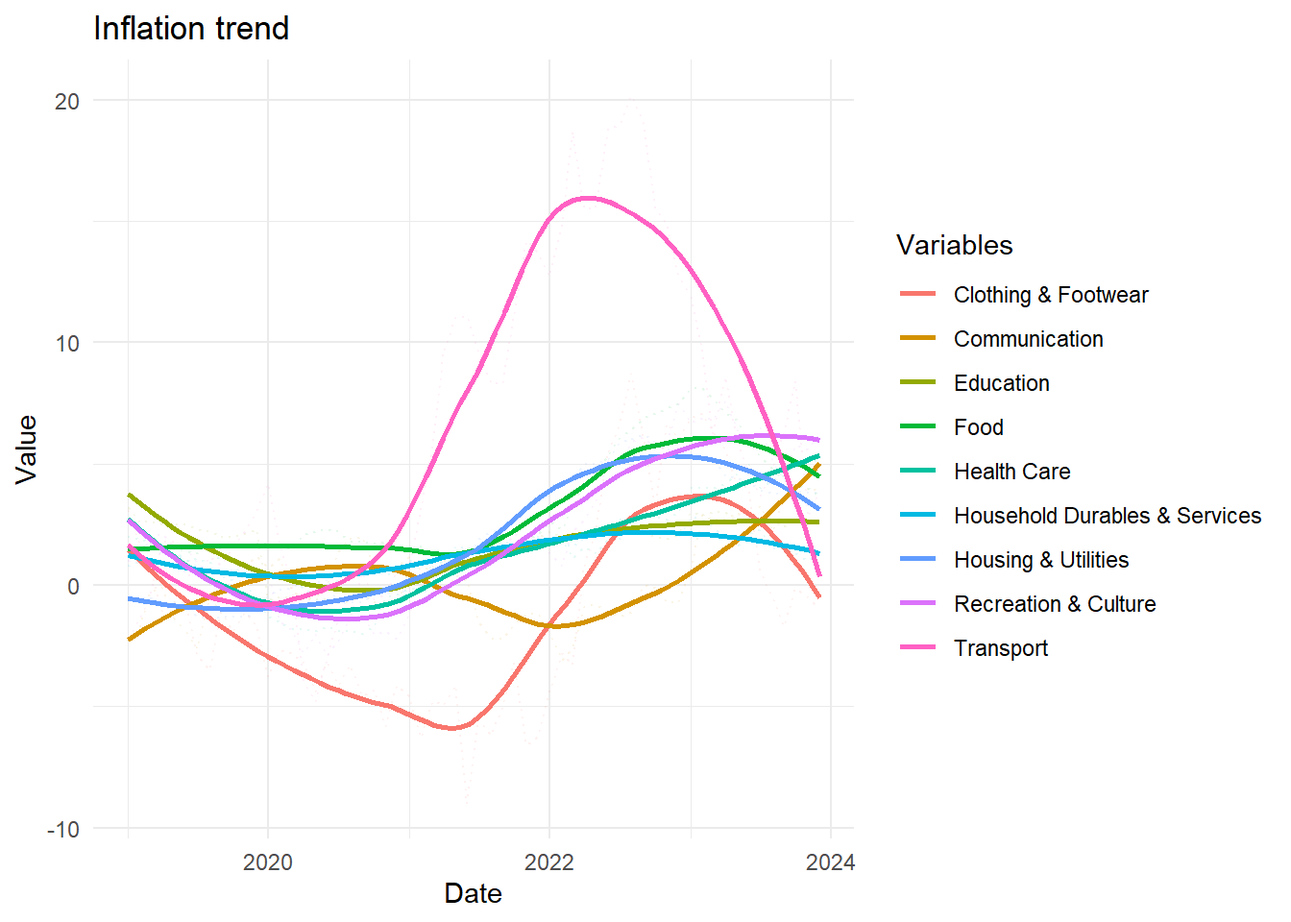
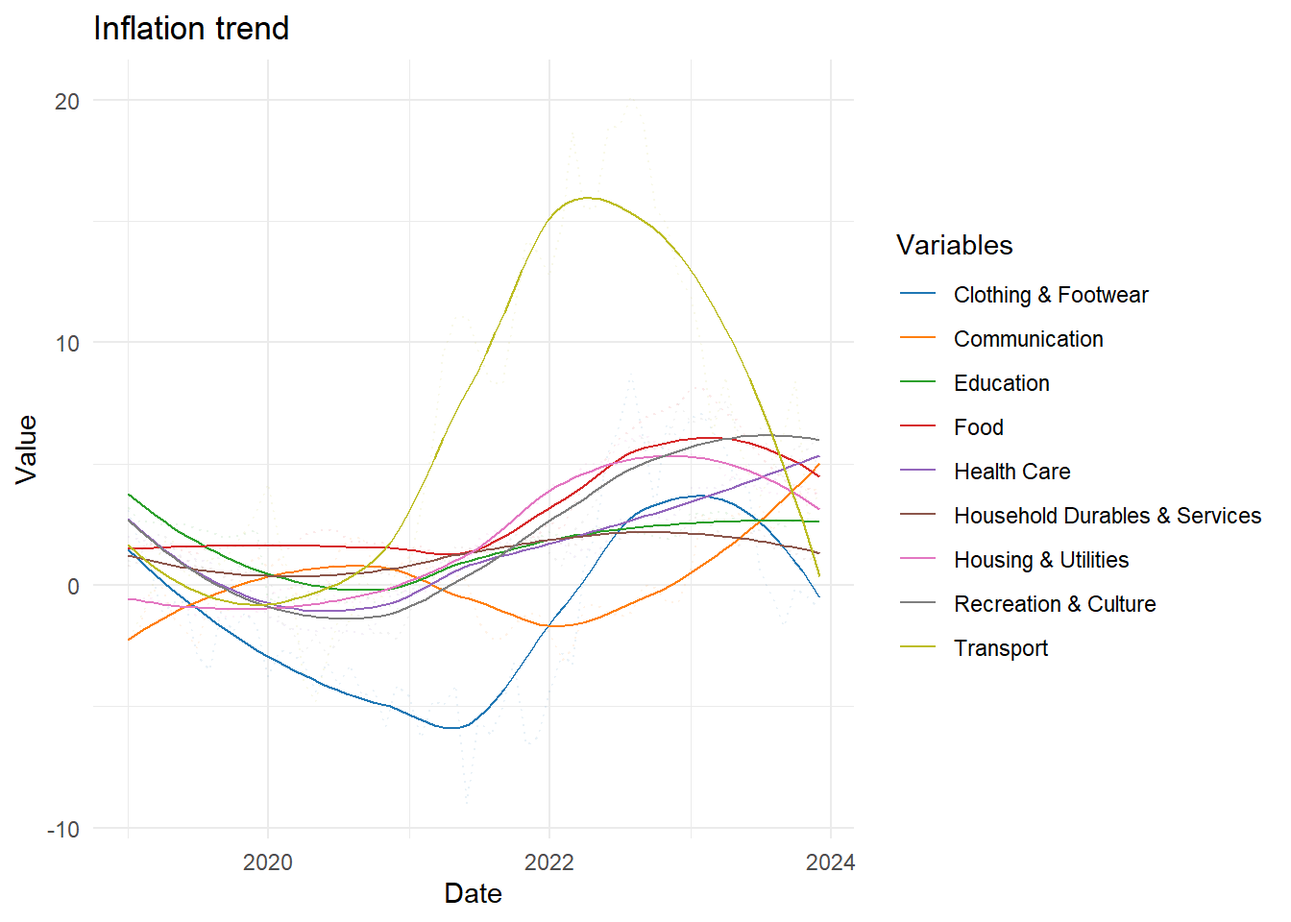
Test another graph

diff --git a/project_prep.html b/project_prep.html
@@ -113,7 +113,7 @@ pre > code.sourceCode > span > a:first-child::before { text-decoration: underlin
 <div id="fig-old-vis-on-poster" class="quarto-figure quarto-figure-center quarto-float anchored">
 <figure class="quarto-float quarto-float-fig figure">
 <div aria-describedby="fig-old-vis-on-poster-caption-0ceaefa1-69ba-4598-a22c-09a6ac19f8ca">
-<img src="images/old_poster.png" class="img-fluid figure-img">
+<img src="images/old_poster.png" class="img-fluid figure-img" width="254">
 </div>
 <figcaption class="quarto-float-caption-bottom quarto-float-caption quarto-float-fig" id="fig-old-vis-on-poster-caption-0ceaefa1-69ba-4598-a22c-09a6ac19f8ca">
 Figure&nbsp;1: Heat map of inflationary impact on key items over 2023.
@@ -181,16 +181,23 @@ Figure&nbsp;1: Heat map of inflationary impact on key items over 2023.
 </div>
 <p>The data is then filtered to include only data from the base year onwards (2019). This is done to narrow down the size of the dataset for easier management and faster performance, as well as to ensure the dataset’s consistency with the base year:</p>
 <div class="cell">
-<div class="sourceCode cell-code" id="cb5"><pre class="sourceCode r code-with-copy"><code class="sourceCode r"><span id="cb5-1"><a href="#cb5-1" aria-hidden="true" tabindex="-1"></a><span class="co"># Filter the data to include only these categories and the months from 2019 onwards</span></span>
-<span id="cb5-2"><a href="#cb5-2" aria-hidden="true" tabindex="-1"></a>data <span class="ot">&lt;-</span> data <span class="sc">|&gt;</span></span>
-<span id="cb5-3"><a href="#cb5-3" aria-hidden="true" tabindex="-1"></a>  <span class="fu">filter</span>(Variables <span class="sc">%in%</span> categories) <span class="sc">|&gt;</span></span>
+<div class="sourceCode cell-code" id="cb5"><pre class="sourceCode r code-with-copy"><code class="sourceCode r"><span id="cb5-1"><a href="#cb5-1" aria-hidden="true" tabindex="-1"></a><span class="co"># Filter the total inflation every year</span></span>
+<span id="cb5-2"><a href="#cb5-2" aria-hidden="true" tabindex="-1"></a>total_inf_data <span class="ot">&lt;-</span> data <span class="sc">|&gt;</span> </span>
+<span id="cb5-3"><a href="#cb5-3" aria-hidden="true" tabindex="-1"></a>  <span class="fu">filter</span>(Variables <span class="sc">%in%</span> <span class="st">"All Items"</span>) <span class="sc">|&gt;</span></span>
 <span id="cb5-4"><a href="#cb5-4" aria-hidden="true" tabindex="-1"></a>  <span class="fu">select</span>(Variables, <span class="fu">starts_with</span>(<span class="fu">c</span>(<span class="st">"2019"</span>, <span class="st">"2020"</span>, <span class="st">"2021"</span>, <span class="st">"2022"</span>, <span class="st">"2023"</span>))) <span class="sc">|&gt;</span></span>
 <span id="cb5-5"><a href="#cb5-5" aria-hidden="true" tabindex="-1"></a>  <span class="co"># Convert selected columns to numeric</span></span>
 <span id="cb5-6"><a href="#cb5-6" aria-hidden="true" tabindex="-1"></a>  <span class="fu">mutate_at</span>(<span class="fu">vars</span>(<span class="fu">starts_with</span>(<span class="fu">c</span>(<span class="st">"2019"</span>, <span class="st">"2020"</span>, <span class="st">"2021"</span>, <span class="st">"2022"</span>, <span class="st">"2023"</span>))), as.numeric)</span>
 <span id="cb5-7"><a href="#cb5-7" aria-hidden="true" tabindex="-1"></a></span>
-<span id="cb5-8"><a href="#cb5-8" aria-hidden="true" tabindex="-1"></a><span class="co"># Print the filtered data</span></span>
-<span id="cb5-9"><a href="#cb5-9" aria-hidden="true" tabindex="-1"></a><span class="fu">options</span>(<span class="at">max.print =</span> <span class="fl">1e6</span>)</span>
-<span id="cb5-10"><a href="#cb5-10" aria-hidden="true" tabindex="-1"></a><span class="fu">print</span>(data, <span class="at">n =</span> <span class="fu">nrow</span>(data), <span class="at">width =</span> <span class="cn">Inf</span>)</span></code><button title="Copy to Clipboard" class="code-copy-button"><i class="bi"></i></button></pre></div>
+<span id="cb5-8"><a href="#cb5-8" aria-hidden="true" tabindex="-1"></a><span class="co"># Filter the data to include only these categories and the months from 2019 onwards</span></span>
+<span id="cb5-9"><a href="#cb5-9" aria-hidden="true" tabindex="-1"></a>data <span class="ot">&lt;-</span> data <span class="sc">|&gt;</span></span>
+<span id="cb5-10"><a href="#cb5-10" aria-hidden="true" tabindex="-1"></a>  <span class="fu">filter</span>(Variables <span class="sc">%in%</span> categories) <span class="sc">|&gt;</span></span>
+<span id="cb5-11"><a href="#cb5-11" aria-hidden="true" tabindex="-1"></a>  <span class="fu">select</span>(Variables, <span class="fu">starts_with</span>(<span class="fu">c</span>(<span class="st">"2019"</span>, <span class="st">"2020"</span>, <span class="st">"2021"</span>, <span class="st">"2022"</span>, <span class="st">"2023"</span>))) <span class="sc">|&gt;</span></span>
+<span id="cb5-12"><a href="#cb5-12" aria-hidden="true" tabindex="-1"></a>  <span class="co"># Convert selected columns to numeric</span></span>
+<span id="cb5-13"><a href="#cb5-13" aria-hidden="true" tabindex="-1"></a>  <span class="fu">mutate_at</span>(<span class="fu">vars</span>(<span class="fu">starts_with</span>(<span class="fu">c</span>(<span class="st">"2019"</span>, <span class="st">"2020"</span>, <span class="st">"2021"</span>, <span class="st">"2022"</span>, <span class="st">"2023"</span>))), as.numeric)</span>
+<span id="cb5-14"><a href="#cb5-14" aria-hidden="true" tabindex="-1"></a></span>
+<span id="cb5-15"><a href="#cb5-15" aria-hidden="true" tabindex="-1"></a><span class="co"># Print the filtered data</span></span>
+<span id="cb5-16"><a href="#cb5-16" aria-hidden="true" tabindex="-1"></a><span class="fu">options</span>(<span class="at">max.print =</span> <span class="fl">1e6</span>)</span>
+<span id="cb5-17"><a href="#cb5-17" aria-hidden="true" tabindex="-1"></a><span class="fu">print</span>(data, <span class="at">n =</span> <span class="fu">nrow</span>(data), <span class="at">width =</span> <span class="cn">Inf</span>)</span></code><button title="Copy to Clipboard" class="code-copy-button"><i class="bi"></i></button></pre></div>
 <div class="cell-output cell-output-stdout">
 <pre><code># A tibble: 9 × 61
   Variables                     `2019 Jan` `2019 Feb` `2019 Mar` `2019 Apr`
@@ -313,7 +320,21 @@ Figure&nbsp;1: Heat map of inflationary impact on key items over 2023.
 <span id="cb7-16"><a href="#cb7-16" aria-hidden="true" tabindex="-1"></a>  <span class="co"># To sort the data by Year, then by Month</span></span>
 <span id="cb7-17"><a href="#cb7-17" aria-hidden="true" tabindex="-1"></a>  <span class="fu">arrange</span>(Year, Month)</span>
 <span id="cb7-18"><a href="#cb7-18" aria-hidden="true" tabindex="-1"></a></span>
-<span id="cb7-19"><a href="#cb7-19" aria-hidden="true" tabindex="-1"></a>pivoted_data</span></code><button title="Copy to Clipboard" class="code-copy-button"><i class="bi"></i></button></pre></div>
+<span id="cb7-19"><a href="#cb7-19" aria-hidden="true" tabindex="-1"></a><span class="co"># Pivot the data for the total inflation</span></span>
+<span id="cb7-20"><a href="#cb7-20" aria-hidden="true" tabindex="-1"></a>pivoted_total_data <span class="ot">&lt;-</span> <span class="fu">pivot_longer</span>(</span>
+<span id="cb7-21"><a href="#cb7-21" aria-hidden="true" tabindex="-1"></a>  total_inf_data, </span>
+<span id="cb7-22"><a href="#cb7-22" aria-hidden="true" tabindex="-1"></a>  <span class="at">cols =</span> <span class="fu">starts_with</span>(<span class="fu">c</span>(<span class="st">"2019"</span>, <span class="st">"2020"</span>, <span class="st">"2021"</span>,<span class="st">"2022"</span>, <span class="st">"2023"</span>)),</span>
+<span id="cb7-23"><a href="#cb7-23" aria-hidden="true" tabindex="-1"></a>  <span class="at">names_to =</span> <span class="st">"Month_Year"</span>,</span>
+<span id="cb7-24"><a href="#cb7-24" aria-hidden="true" tabindex="-1"></a>  <span class="at">values_to =</span> <span class="st">"Value"</span></span>
+<span id="cb7-25"><a href="#cb7-25" aria-hidden="true" tabindex="-1"></a>) <span class="sc">|&gt;</span></span>
+<span id="cb7-26"><a href="#cb7-26" aria-hidden="true" tabindex="-1"></a>  <span class="co"># Separate the Month column into Year and Month</span></span>
+<span id="cb7-27"><a href="#cb7-27" aria-hidden="true" tabindex="-1"></a>  <span class="fu">separate</span>(Month_Year, <span class="at">into =</span> <span class="fu">c</span>(<span class="st">"Year"</span>, <span class="st">"Month"</span>), <span class="at">sep =</span> <span class="st">" "</span>) <span class="sc">|&gt;</span></span>
+<span id="cb7-28"><a href="#cb7-28" aria-hidden="true" tabindex="-1"></a>  <span class="co"># Convert Month column into numeric using mapping</span></span>
+<span id="cb7-29"><a href="#cb7-29" aria-hidden="true" tabindex="-1"></a>  <span class="fu">mutate</span>(<span class="at">Year =</span> <span class="fu">as.numeric</span>(Year), <span class="at">Month =</span> month_mapping[Month]) <span class="sc">|&gt;</span></span>
+<span id="cb7-30"><a href="#cb7-30" aria-hidden="true" tabindex="-1"></a>  <span class="co"># To sort the data by Year, then by Month</span></span>
+<span id="cb7-31"><a href="#cb7-31" aria-hidden="true" tabindex="-1"></a>  <span class="fu">arrange</span>(Year, Month)</span>
+<span id="cb7-32"><a href="#cb7-32" aria-hidden="true" tabindex="-1"></a></span>
+<span id="cb7-33"><a href="#cb7-33" aria-hidden="true" tabindex="-1"></a>pivoted_data</span></code><button title="Copy to Clipboard" class="code-copy-button"><i class="bi"></i></button></pre></div>
 <div class="cell-output cell-output-stdout">
 <pre><code># A tibble: 540 × 4
    Variables                      Year Month Value
@@ -330,19 +351,36 @@ Figure&nbsp;1: Heat map of inflationary impact on key items over 2023.
 10 Food                           2019     2   1.5
 # ℹ 530 more rows</code></pre>
 </div>
+<div class="sourceCode cell-code" id="cb9"><pre class="sourceCode r code-with-copy"><code class="sourceCode r"><span id="cb9-1"><a href="#cb9-1" aria-hidden="true" tabindex="-1"></a>pivoted_total_data</span></code><button title="Copy to Clipboard" class="code-copy-button"><i class="bi"></i></button></pre></div>
+<div class="cell-output cell-output-stdout">
+<pre><code># A tibble: 60 × 4
+   Variables  Year Month Value
+   &lt;chr&gt;     &lt;dbl&gt; &lt;dbl&gt; &lt;dbl&gt;
+ 1 All Items  2019     1   0.4
+ 2 All Items  2019     2   0.5
+ 3 All Items  2019     3   0.7
+ 4 All Items  2019     4   0.9
+ 5 All Items  2019     5   0.9
+ 6 All Items  2019     6   0.5
+ 7 All Items  2019     7   0.2
+ 8 All Items  2019     8   0.4
+ 9 All Items  2019     9   0.4
+10 All Items  2019    10   0.5
+# ℹ 50 more rows</code></pre>
+</div>
 </div>
 </section>
 <section id="attempting-to-plot-the-above-data-using-a-line-graph" class="level1">
 <h1>Attempting to plot the above data using a line graph</h1>
 <div class="cell">
-<div class="sourceCode cell-code" id="cb9"><pre class="sourceCode r code-with-copy"><code class="sourceCode r"><span id="cb9-1"><a href="#cb9-1" aria-hidden="true" tabindex="-1"></a><span class="co">#| line-graph-plot</span></span>
-<span id="cb9-2"><a href="#cb9-2" aria-hidden="true" tabindex="-1"></a></span>
-<span id="cb9-3"><a href="#cb9-3" aria-hidden="true" tabindex="-1"></a><span class="co">#  Maybe it's something to build upon?</span></span>
-<span id="cb9-4"><a href="#cb9-4" aria-hidden="true" tabindex="-1"></a></span>
-<span id="cb9-5"><a href="#cb9-5" aria-hidden="true" tabindex="-1"></a><span class="co"># Convert Month and Year to a combined date variable for X-axis</span></span>
-<span id="cb9-6"><a href="#cb9-6" aria-hidden="true" tabindex="-1"></a>pivoted_data<span class="sc">$</span>Date <span class="ot">&lt;-</span> <span class="fu">as.Date</span>(<span class="fu">paste</span>(pivoted_data<span class="sc">$</span>Year, pivoted_data<span class="sc">$</span>Month, <span class="st">"01"</span>, <span class="at">sep =</span> <span class="st">"-"</span>))</span>
-<span id="cb9-7"><a href="#cb9-7" aria-hidden="true" tabindex="-1"></a></span>
-<span id="cb9-8"><a href="#cb9-8" aria-hidden="true" tabindex="-1"></a>pivoted_data</span></code><button title="Copy to Clipboard" class="code-copy-button"><i class="bi"></i></button></pre></div>
+<div class="sourceCode cell-code" id="cb11"><pre class="sourceCode r code-with-copy"><code class="sourceCode r"><span id="cb11-1"><a href="#cb11-1" aria-hidden="true" tabindex="-1"></a><span class="co">#| line-graph-plot</span></span>
+<span id="cb11-2"><a href="#cb11-2" aria-hidden="true" tabindex="-1"></a></span>
+<span id="cb11-3"><a href="#cb11-3" aria-hidden="true" tabindex="-1"></a><span class="co">#  Maybe it's something to build upon?</span></span>
+<span id="cb11-4"><a href="#cb11-4" aria-hidden="true" tabindex="-1"></a></span>
+<span id="cb11-5"><a href="#cb11-5" aria-hidden="true" tabindex="-1"></a><span class="co"># Convert Month and Year to a combined date variable for X-axis</span></span>
+<span id="cb11-6"><a href="#cb11-6" aria-hidden="true" tabindex="-1"></a>pivoted_data<span class="sc">$</span>Date <span class="ot">&lt;-</span> <span class="fu">as.Date</span>(<span class="fu">paste</span>(pivoted_data<span class="sc">$</span>Year, pivoted_data<span class="sc">$</span>Month, <span class="st">"01"</span>, <span class="at">sep =</span> <span class="st">"-"</span>))</span>
+<span id="cb11-7"><a href="#cb11-7" aria-hidden="true" tabindex="-1"></a></span>
+<span id="cb11-8"><a href="#cb11-8" aria-hidden="true" tabindex="-1"></a>pivoted_data</span></code><button title="Copy to Clipboard" class="code-copy-button"><i class="bi"></i></button></pre></div>
 <div class="cell-output cell-output-stdout">
 <pre><code># A tibble: 540 × 5
    Variables                      Year Month Value Date      
@@ -359,18 +397,22 @@ Figure&nbsp;1: Heat map of inflationary impact on key items over 2023.
 10 Food                           2019     2   1.5 2019-02-01
 # ℹ 530 more rows</code></pre>
 </div>
-<div class="sourceCode cell-code" id="cb11"><pre class="sourceCode r code-with-copy"><code class="sourceCode r"><span id="cb11-1"><a href="#cb11-1" aria-hidden="true" tabindex="-1"></a>plt <span class="ot">&lt;-</span> <span class="fu">ggplot</span>(pivoted_data, <span class="fu">aes</span>(<span class="at">x =</span> Date, <span class="at">y =</span> Value, <span class="at">color =</span> Variables)) <span class="sc">+</span></span>
-<span id="cb11-2"><a href="#cb11-2" aria-hidden="true" tabindex="-1"></a>  <span class="fu">geom_line</span>(<span class="fu">aes</span>(<span class="at">color =</span> Variables), <span class="at">alpha =</span> <span class="fl">0.1</span>, <span class="at">linetype=</span><span class="st">"dotted"</span>) <span class="sc">+</span> <span class="co">#  add the exact line graph (harsh)</span></span>
-<span id="cb11-3"><a href="#cb11-3" aria-hidden="true" tabindex="-1"></a>  <span class="fu">geom_smooth</span>(<span class="at">method =</span> <span class="st">"auto"</span>, <span class="at">se =</span> <span class="cn">FALSE</span>, <span class="fu">aes</span>(<span class="at">group =</span> Variables)) <span class="sc">+</span>  <span class="co"># Add a smooth curve</span></span>
-<span id="cb11-4"><a href="#cb11-4" aria-hidden="true" tabindex="-1"></a>  <span class="co"># geom_point(aes(color=Variables), alpha=0.2) + #  add the exact data point</span></span>
-<span id="cb11-5"><a href="#cb11-5" aria-hidden="true" tabindex="-1"></a>  <span class="fu">labs</span>(</span>
-<span id="cb11-6"><a href="#cb11-6" aria-hidden="true" tabindex="-1"></a>    <span class="at">title =</span> <span class="st">"Inflation trend"</span>,</span>
-<span id="cb11-7"><a href="#cb11-7" aria-hidden="true" tabindex="-1"></a>    <span class="at">x =</span> <span class="st">"Date"</span>,</span>
-<span id="cb11-8"><a href="#cb11-8" aria-hidden="true" tabindex="-1"></a>    <span class="at">y =</span> <span class="st">"Value"</span></span>
-<span id="cb11-9"><a href="#cb11-9" aria-hidden="true" tabindex="-1"></a>  ) <span class="sc">+</span></span>
-<span id="cb11-10"><a href="#cb11-10" aria-hidden="true" tabindex="-1"></a>  <span class="fu">theme_minimal</span>()</span>
-<span id="cb11-11"><a href="#cb11-11" aria-hidden="true" tabindex="-1"></a></span>
-<span id="cb11-12"><a href="#cb11-12" aria-hidden="true" tabindex="-1"></a>plt</span></code><button title="Copy to Clipboard" class="code-copy-button"><i class="bi"></i></button></pre></div>
+<div class="sourceCode cell-code" id="cb13"><pre class="sourceCode r code-with-copy"><code class="sourceCode r"><span id="cb13-1"><a href="#cb13-1" aria-hidden="true" tabindex="-1"></a><span class="co"># Use Qualitative Color Palette for different categories. Use colors that are easily distinguishable with the white bg</span></span>
+<span id="cb13-2"><a href="#cb13-2" aria-hidden="true" tabindex="-1"></a>custom_colors <span class="ot">&lt;-</span> <span class="fu">c</span>(<span class="st">"#1f77b4"</span>, <span class="st">"#ff7f0e"</span>, <span class="st">"#2ca02c"</span>, <span class="st">"#d62728"</span>, <span class="st">"#9467bd"</span>, <span class="st">"#8c564b"</span>, <span class="st">"#e377c2"</span>, <span class="st">"#7f7f7f"</span>, <span class="st">"#bcbd22"</span>)</span>
+<span id="cb13-3"><a href="#cb13-3" aria-hidden="true" tabindex="-1"></a></span>
+<span id="cb13-4"><a href="#cb13-4" aria-hidden="true" tabindex="-1"></a>plt <span class="ot">&lt;-</span> <span class="fu">ggplot</span>(pivoted_data, <span class="fu">aes</span>(<span class="at">x =</span> Date, <span class="at">y =</span> Value, <span class="at">color =</span> Variables)) <span class="sc">+</span></span>
+<span id="cb13-5"><a href="#cb13-5" aria-hidden="true" tabindex="-1"></a>  <span class="fu">geom_line</span>(<span class="fu">aes</span>(<span class="at">color =</span> Variables), <span class="at">alpha =</span> <span class="fl">0.1</span>, <span class="at">linetype=</span><span class="st">"dotted"</span>) <span class="sc">+</span> <span class="co">#  add the exact line graph (harsh)</span></span>
+<span id="cb13-6"><a href="#cb13-6" aria-hidden="true" tabindex="-1"></a>  <span class="fu">scale_color_manual</span>(<span class="at">values =</span> custom_colors) <span class="sc">+</span>  </span>
+<span id="cb13-7"><a href="#cb13-7" aria-hidden="true" tabindex="-1"></a>  <span class="fu">geom_smooth</span>(<span class="at">method =</span> <span class="st">"auto"</span>, <span class="at">se =</span> <span class="cn">FALSE</span>, <span class="fu">aes</span>(<span class="at">group =</span> Variables), <span class="at">linewidth =</span> <span class="fl">0.5</span>) <span class="sc">+</span>  <span class="co"># Add a smooth curve</span></span>
+<span id="cb13-8"><a href="#cb13-8" aria-hidden="true" tabindex="-1"></a>  <span class="co"># geom_point(aes(color=Variables), alpha=0.2) + #  add the exact data point</span></span>
+<span id="cb13-9"><a href="#cb13-9" aria-hidden="true" tabindex="-1"></a>  <span class="fu">labs</span>(</span>
+<span id="cb13-10"><a href="#cb13-10" aria-hidden="true" tabindex="-1"></a>    <span class="at">title =</span> <span class="st">"Inflation trend"</span>,</span>
+<span id="cb13-11"><a href="#cb13-11" aria-hidden="true" tabindex="-1"></a>    <span class="at">x =</span> <span class="st">"Date"</span>,</span>
+<span id="cb13-12"><a href="#cb13-12" aria-hidden="true" tabindex="-1"></a>    <span class="at">y =</span> <span class="st">"Value"</span></span>
+<span id="cb13-13"><a href="#cb13-13" aria-hidden="true" tabindex="-1"></a>  ) <span class="sc">+</span> </span>
+<span id="cb13-14"><a href="#cb13-14" aria-hidden="true" tabindex="-1"></a>  <span class="fu">theme_minimal</span>()</span>
+<span id="cb13-15"><a href="#cb13-15" aria-hidden="true" tabindex="-1"></a></span>
+<span id="cb13-16"><a href="#cb13-16" aria-hidden="true" tabindex="-1"></a>plt</span></code><button title="Copy to Clipboard" class="code-copy-button"><i class="bi"></i></button></pre></div>
 <div class="cell-output cell-output-stderr">
 <pre><code>`geom_smooth()` using method = 'loess' and formula = 'y ~ x'</code></pre>
 </div>
@@ -386,9 +428,9 @@ Figure&nbsp;1: Heat map of inflationary impact on key items over 2023.
 <section id="attempting-to-plot-a-heatmap-using-the-preprocessed-above" class="level1">
 <h1>Attempting to plot a heatmap using the preprocessed above</h1>
 <div class="cell">
-<div class="sourceCode cell-code" id="cb13"><pre class="sourceCode r code-with-copy"><code class="sourceCode r"><span id="cb13-1"><a href="#cb13-1" aria-hidden="true" tabindex="-1"></a>df_long <span class="ot">&lt;-</span> </span>
-<span id="cb13-2"><a href="#cb13-2" aria-hidden="true" tabindex="-1"></a>  <span class="fu">pivot_longer</span>(data, <span class="at">cols =</span> <span class="sc">-</span>Variables, <span class="at">names_to =</span> <span class="st">"Month"</span>, <span class="at">values_to =</span> <span class="st">"Value"</span>)</span>
-<span id="cb13-3"><a href="#cb13-3" aria-hidden="true" tabindex="-1"></a>df_long</span></code><button title="Copy to Clipboard" class="code-copy-button"><i class="bi"></i></button></pre></div>
+<div class="sourceCode cell-code" id="cb15"><pre class="sourceCode r code-with-copy"><code class="sourceCode r"><span id="cb15-1"><a href="#cb15-1" aria-hidden="true" tabindex="-1"></a>df_long <span class="ot">&lt;-</span> </span>
+<span id="cb15-2"><a href="#cb15-2" aria-hidden="true" tabindex="-1"></a>  <span class="fu">pivot_longer</span>(data, <span class="at">cols =</span> <span class="sc">-</span>Variables, <span class="at">names_to =</span> <span class="st">"Month"</span>, <span class="at">values_to =</span> <span class="st">"Value"</span>)</span>
+<span id="cb15-3"><a href="#cb15-3" aria-hidden="true" tabindex="-1"></a>df_long</span></code><button title="Copy to Clipboard" class="code-copy-button"><i class="bi"></i></button></pre></div>
 <div class="cell-output cell-output-stdout">
 <pre><code># A tibble: 540 × 3
    Variables Month    Value
@@ -405,40 +447,124 @@ Figure&nbsp;1: Heat map of inflationary impact on key items over 2023.
 10 Food      2019 Oct   1.6
 # ℹ 530 more rows</code></pre>
 </div>
-<div class="sourceCode cell-code" id="cb15"><pre class="sourceCode r code-with-copy"><code class="sourceCode r"><span id="cb15-1"><a href="#cb15-1" aria-hidden="true" tabindex="-1"></a><span class="co"># Create a data frame for the year labels and vertical lines</span></span>
-<span id="cb15-2"><a href="#cb15-2" aria-hidden="true" tabindex="-1"></a>years <span class="ot">&lt;-</span> <span class="fu">unique</span>(df_long<span class="sc">$</span>Year)</span></code><button title="Copy to Clipboard" class="code-copy-button"><i class="bi"></i></button></pre></div>
+<div class="sourceCode cell-code" id="cb17"><pre class="sourceCode r code-with-copy"><code class="sourceCode r"><span id="cb17-1"><a href="#cb17-1" aria-hidden="true" tabindex="-1"></a><span class="co"># Create a data frame for the year labels and vertical lines</span></span>
+<span id="cb17-2"><a href="#cb17-2" aria-hidden="true" tabindex="-1"></a>years <span class="ot">&lt;-</span> <span class="fu">unique</span>(df_long<span class="sc">$</span>Year)</span></code><button title="Copy to Clipboard" class="code-copy-button"><i class="bi"></i></button></pre></div>
 <div class="cell-output cell-output-stderr">
 <pre><code>Warning: Unknown or uninitialised column: `Year`.</code></pre>
 </div>
-<div class="sourceCode cell-code" id="cb17"><pre class="sourceCode r code-with-copy"><code class="sourceCode r"><span id="cb17-1"><a href="#cb17-1" aria-hidden="true" tabindex="-1"></a>year_positions <span class="ot">&lt;-</span> <span class="fu">seq</span>(<span class="fl">12.5</span>, <span class="at">by =</span> <span class="dv">12</span>, <span class="at">length.out =</span> <span class="fu">length</span>(years))</span>
-<span id="cb17-2"><a href="#cb17-2" aria-hidden="true" tabindex="-1"></a></span>
-<span id="cb17-3"><a href="#cb17-3" aria-hidden="true" tabindex="-1"></a>year_labels <span class="ot">&lt;-</span> <span class="fu">data.frame</span>(</span>
-<span id="cb17-4"><a href="#cb17-4" aria-hidden="true" tabindex="-1"></a>  <span class="at">Year =</span> years,</span>
-<span id="cb17-5"><a href="#cb17-5" aria-hidden="true" tabindex="-1"></a>  <span class="at">x_position =</span> <span class="fu">seq</span>(<span class="fl">6.5</span>, <span class="at">by =</span> <span class="dv">12</span>, <span class="at">length.out =</span> <span class="fu">length</span>(years))  <span class="co"># Adjust x_position for year labels</span></span>
-<span id="cb17-6"><a href="#cb17-6" aria-hidden="true" tabindex="-1"></a>)</span>
-<span id="cb17-7"><a href="#cb17-7" aria-hidden="true" tabindex="-1"></a></span>
-<span id="cb17-8"><a href="#cb17-8" aria-hidden="true" tabindex="-1"></a><span class="fu">ggplot</span>(df_long, <span class="fu">aes</span>(<span class="at">x =</span> Month, <span class="at">y =</span> Variables, <span class="at">fill =</span> Value)) <span class="sc">+</span></span>
-<span id="cb17-9"><a href="#cb17-9" aria-hidden="true" tabindex="-1"></a>  <span class="fu">geom_tile</span>(<span class="at">color =</span> <span class="st">"white"</span>) <span class="sc">+</span></span>
-<span id="cb17-10"><a href="#cb17-10" aria-hidden="true" tabindex="-1"></a>    <span class="fu">scale_fill_gradient2</span>(<span class="at">name =</span> <span class="st">"Inflation Rate</span><span class="sc">\n</span><span class="st">Percentage Change"</span>,</span>
-<span id="cb17-11"><a href="#cb17-11" aria-hidden="true" tabindex="-1"></a>                       <span class="at">low =</span> <span class="st">"red"</span>,  <span class="co"># Red (low end)</span></span>
-<span id="cb17-12"><a href="#cb17-12" aria-hidden="true" tabindex="-1"></a>                       <span class="at">mid =</span> <span class="st">"white"</span>,    <span class="co"># White (midpoint)</span></span>
-<span id="cb17-13"><a href="#cb17-13" aria-hidden="true" tabindex="-1"></a>                       <span class="at">high =</span> <span class="st">"blue"</span>, <span class="co"># blue (high end)</span></span>
-<span id="cb17-14"><a href="#cb17-14" aria-hidden="true" tabindex="-1"></a>                       <span class="at">midpoint =</span> <span class="dv">0</span>,     <span class="co"># Set midpoint to 0</span></span>
-<span id="cb17-15"><a href="#cb17-15" aria-hidden="true" tabindex="-1"></a>                       <span class="at">breaks =</span> <span class="fu">c</span>(<span class="dv">20</span>, <span class="dv">10</span>, <span class="dv">0</span>, <span class="sc">-</span><span class="dv">7</span>),  <span class="co"># Specify breaks</span></span>
-<span id="cb17-16"><a href="#cb17-16" aria-hidden="true" tabindex="-1"></a>                       <span class="at">labels =</span> <span class="fu">c</span>(<span class="st">"20"</span>, <span class="st">"10"</span>, <span class="st">"0"</span>, <span class="st">"-7"</span>),  <span class="co"># Specify labels</span></span>
-<span id="cb17-17"><a href="#cb17-17" aria-hidden="true" tabindex="-1"></a>                       ) <span class="sc">+</span></span>
-<span id="cb17-18"><a href="#cb17-18" aria-hidden="true" tabindex="-1"></a>  <span class="fu">labs</span>(<span class="at">x =</span> <span class="st">"Years"</span>, <span class="at">y =</span> <span class="st">"Variables"</span>, <span class="at">title =</span> <span class="st">"Heatmap of Variables by Month"</span>) <span class="sc">+</span></span>
-<span id="cb17-19"><a href="#cb17-19" aria-hidden="true" tabindex="-1"></a>  <span class="fu">theme_minimal</span>() <span class="sc">+</span></span>
-<span id="cb17-20"><a href="#cb17-20" aria-hidden="true" tabindex="-1"></a>  <span class="fu">theme</span>(<span class="at">legend.position =</span> <span class="st">"top"</span>,  <span class="co"># Move legend to the top</span></span>
-<span id="cb17-21"><a href="#cb17-21" aria-hidden="true" tabindex="-1"></a>        <span class="at">plot.title =</span> <span class="fu">element_text</span>(<span class="at">hjust =</span> <span class="fl">0.5</span>),  <span class="co"># Center plot title</span></span>
-<span id="cb17-22"><a href="#cb17-22" aria-hidden="true" tabindex="-1"></a>        <span class="at">axis.text.x =</span> <span class="fu">element_blank</span>()  <span class="co"># Remove x-axis text</span></span>
-<span id="cb17-23"><a href="#cb17-23" aria-hidden="true" tabindex="-1"></a>  ) <span class="sc">+</span></span>
-<span id="cb17-24"><a href="#cb17-24" aria-hidden="true" tabindex="-1"></a>  <span class="fu">coord_fixed</span>(<span class="at">ratio =</span> <span class="dv">5</span>) <span class="sc">+</span>  <span class="co"># Ensure square tiles</span></span>
-<span id="cb17-25"><a href="#cb17-25" aria-hidden="true" tabindex="-1"></a>  <span class="fu">geom_vline</span>(<span class="at">xintercept =</span> <span class="fu">c</span>(<span class="fl">12.5</span>, <span class="fl">24.5</span>,<span class="fl">36.5</span>, <span class="fl">48.5</span>, <span class="fl">60.5</span>), <span class="at">linetype =</span> <span class="st">"dashed"</span>, <span class="at">color =</span> <span class="st">"black"</span>)   <span class="co"># Add vertical lines</span></span></code><button title="Copy to Clipboard" class="code-copy-button"><i class="bi"></i></button></pre></div>
+<div class="sourceCode cell-code" id="cb19"><pre class="sourceCode r code-with-copy"><code class="sourceCode r"><span id="cb19-1"><a href="#cb19-1" aria-hidden="true" tabindex="-1"></a>year_positions <span class="ot">&lt;-</span> <span class="fu">seq</span>(<span class="fl">12.5</span>, <span class="at">by =</span> <span class="dv">12</span>, <span class="at">length.out =</span> <span class="fu">length</span>(years))</span>
+<span id="cb19-2"><a href="#cb19-2" aria-hidden="true" tabindex="-1"></a></span>
+<span id="cb19-3"><a href="#cb19-3" aria-hidden="true" tabindex="-1"></a>year_labels <span class="ot">&lt;-</span> <span class="fu">data.frame</span>(</span>
+<span id="cb19-4"><a href="#cb19-4" aria-hidden="true" tabindex="-1"></a>  <span class="at">Year =</span> years,</span>
+<span id="cb19-5"><a href="#cb19-5" aria-hidden="true" tabindex="-1"></a>  <span class="at">x_position =</span> <span class="fu">seq</span>(<span class="fl">6.5</span>, <span class="at">by =</span> <span class="dv">12</span>, <span class="at">length.out =</span> <span class="fu">length</span>(years))  <span class="co"># Adjust x_position for year labels</span></span>
+<span id="cb19-6"><a href="#cb19-6" aria-hidden="true" tabindex="-1"></a>)</span>
+<span id="cb19-7"><a href="#cb19-7" aria-hidden="true" tabindex="-1"></a></span>
+<span id="cb19-8"><a href="#cb19-8" aria-hidden="true" tabindex="-1"></a><span class="fu">ggplot</span>(df_long, <span class="fu">aes</span>(<span class="at">x =</span> Month, <span class="at">y =</span> Variables, <span class="at">fill =</span> Value)) <span class="sc">+</span></span>
+<span id="cb19-9"><a href="#cb19-9" aria-hidden="true" tabindex="-1"></a>  <span class="fu">geom_tile</span>(<span class="at">color =</span> <span class="st">"white"</span>) <span class="sc">+</span></span>
+<span id="cb19-10"><a href="#cb19-10" aria-hidden="true" tabindex="-1"></a>    <span class="fu">scale_fill_gradient2</span>(<span class="at">name =</span> <span class="st">"Inflation Rate</span><span class="sc">\n</span><span class="st">Percentage Change"</span>,</span>
+<span id="cb19-11"><a href="#cb19-11" aria-hidden="true" tabindex="-1"></a>                       <span class="at">low =</span> <span class="st">"red"</span>,  <span class="co"># Red (low end)</span></span>
+<span id="cb19-12"><a href="#cb19-12" aria-hidden="true" tabindex="-1"></a>                       <span class="at">mid =</span> <span class="st">"white"</span>,    <span class="co"># White (midpoint)</span></span>
+<span id="cb19-13"><a href="#cb19-13" aria-hidden="true" tabindex="-1"></a>                       <span class="at">high =</span> <span class="st">"blue"</span>, <span class="co"># blue (high end)</span></span>
+<span id="cb19-14"><a href="#cb19-14" aria-hidden="true" tabindex="-1"></a>                       <span class="at">midpoint =</span> <span class="dv">0</span>,     <span class="co"># Set midpoint to 0</span></span>
+<span id="cb19-15"><a href="#cb19-15" aria-hidden="true" tabindex="-1"></a>                       <span class="at">breaks =</span> <span class="fu">c</span>(<span class="dv">20</span>, <span class="dv">10</span>, <span class="dv">0</span>, <span class="sc">-</span><span class="dv">7</span>),  <span class="co"># Specify breaks</span></span>
+<span id="cb19-16"><a href="#cb19-16" aria-hidden="true" tabindex="-1"></a>                       <span class="at">labels =</span> <span class="fu">c</span>(<span class="st">"20"</span>, <span class="st">"10"</span>, <span class="st">"0"</span>, <span class="st">"-7"</span>),  <span class="co"># Specify labels</span></span>
+<span id="cb19-17"><a href="#cb19-17" aria-hidden="true" tabindex="-1"></a>                       ) <span class="sc">+</span></span>
+<span id="cb19-18"><a href="#cb19-18" aria-hidden="true" tabindex="-1"></a>  <span class="fu">labs</span>(<span class="at">x =</span> <span class="st">"Years"</span>, <span class="at">y =</span> <span class="st">"Variables"</span>, <span class="at">title =</span> <span class="st">"Heatmap of Variables by Month"</span>) <span class="sc">+</span></span>
+<span id="cb19-19"><a href="#cb19-19" aria-hidden="true" tabindex="-1"></a>  <span class="fu">theme_minimal</span>() <span class="sc">+</span></span>
+<span id="cb19-20"><a href="#cb19-20" aria-hidden="true" tabindex="-1"></a>  <span class="fu">theme</span>(<span class="at">legend.position =</span> <span class="st">"top"</span>,  <span class="co"># Move legend to the top</span></span>
+<span id="cb19-21"><a href="#cb19-21" aria-hidden="true" tabindex="-1"></a>        <span class="at">plot.title =</span> <span class="fu">element_text</span>(<span class="at">hjust =</span> <span class="fl">0.5</span>),  <span class="co"># Center plot title</span></span>
+<span id="cb19-22"><a href="#cb19-22" aria-hidden="true" tabindex="-1"></a>        <span class="at">axis.text.x =</span> <span class="fu">element_blank</span>()  <span class="co"># Remove x-axis text</span></span>
+<span id="cb19-23"><a href="#cb19-23" aria-hidden="true" tabindex="-1"></a>  ) <span class="sc">+</span></span>
+<span id="cb19-24"><a href="#cb19-24" aria-hidden="true" tabindex="-1"></a>  <span class="fu">coord_fixed</span>(<span class="at">ratio =</span> <span class="dv">5</span>) <span class="sc">+</span>  <span class="co"># Ensure square tiles</span></span>
+<span id="cb19-25"><a href="#cb19-25" aria-hidden="true" tabindex="-1"></a>  <span class="fu">geom_vline</span>(<span class="at">xintercept =</span> <span class="fu">c</span>(<span class="fl">12.5</span>, <span class="fl">24.5</span>,<span class="fl">36.5</span>, <span class="fl">48.5</span>, <span class="fl">60.5</span>), <span class="at">linetype =</span> <span class="st">"dashed"</span>, <span class="at">color =</span> <span class="st">"black"</span>)   <span class="co"># Add vertical lines</span></span></code><button title="Copy to Clipboard" class="code-copy-button"><i class="bi"></i></button></pre></div>
 <div class="cell-output-display">
 <div>
 <figure class="figure">
 <p><img src="project_prep_files/figure-html/unnamed-chunk-8-1.png" class="img-fluid figure-img" width="672"></p>
+</figure>
+</div>
+</div>
+</div>
+</section>
+<section id="testing-another-chart" class="level1">
+<h1>Testing another chart</h1>
+<div class="cell">
+<div class="sourceCode cell-code" id="cb20"><pre class="sourceCode r code-with-copy"><code class="sourceCode r"><span id="cb20-1"><a href="#cb20-1" aria-hidden="true" tabindex="-1"></a>pivoted_total_data<span class="sc">$</span>Date <span class="ot">&lt;-</span> <span class="fu">as.Date</span>(<span class="fu">paste</span>(pivoted_total_data<span class="sc">$</span>Year, pivoted_total_data<span class="sc">$</span>Month, <span class="st">"01"</span>, <span class="at">sep =</span> <span class="st">"-"</span>))</span>
+<span id="cb20-2"><a href="#cb20-2" aria-hidden="true" tabindex="-1"></a></span>
+<span id="cb20-3"><a href="#cb20-3" aria-hidden="true" tabindex="-1"></a>test_plot <span class="ot">&lt;-</span> <span class="fu">ggplot</span>(pivoted_data, <span class="fu">aes</span>(<span class="at">x =</span> Date, <span class="at">y =</span> Value, <span class="at">fill =</span> Variables)) <span class="sc">+</span></span>
+<span id="cb20-4"><a href="#cb20-4" aria-hidden="true" tabindex="-1"></a>  <span class="fu">geom_line</span>() <span class="sc">+</span></span>
+<span id="cb20-5"><a href="#cb20-5" aria-hidden="true" tabindex="-1"></a>  <span class="fu">geom_bar</span>(<span class="at">data =</span> pivoted_total_data, <span class="fu">aes</span>(<span class="at">x =</span> Date, <span class="at">y =</span> Value), <span class="at">stat =</span> <span class="st">"identity"</span>, <span class="at">fill =</span> <span class="st">"grey"</span>) <span class="sc">+</span></span>
+<span id="cb20-6"><a href="#cb20-6" aria-hidden="true" tabindex="-1"></a>  <span class="fu">facet_wrap</span>(<span class="sc">~</span> Variables, <span class="at">scales =</span> <span class="st">"free_y"</span>) <span class="sc">+</span> <span class="co"># Separate facets for each category</span></span>
+<span id="cb20-7"><a href="#cb20-7" aria-hidden="true" tabindex="-1"></a>  <span class="fu">labs</span>(<span class="at">title =</span> <span class="st">"Trends vs Overall Average"</span>, <span class="at">x =</span> <span class="st">"Year"</span>, <span class="at">y =</span> <span class="st">"Value"</span>) <span class="sc">+</span></span>
+<span id="cb20-8"><a href="#cb20-8" aria-hidden="true" tabindex="-1"></a>  <span class="fu">theme_minimal</span>()</span>
+<span id="cb20-9"><a href="#cb20-9" aria-hidden="true" tabindex="-1"></a></span>
+<span id="cb20-10"><a href="#cb20-10" aria-hidden="true" tabindex="-1"></a>test_plot <span class="sc">+</span> <span class="fu">scale_y_continuous</span>(<span class="at">sec.axis =</span> <span class="fu">sec_axis</span>(<span class="sc">~</span>.<span class="sc">/</span><span class="fu">max</span>(.)<span class="sc">*</span><span class="fu">max</span>(pivoted_total_data<span class="sc">$</span>Value), <span class="at">name =</span> <span class="st">"Average Inflation Rate"</span>)) <span class="sc">+</span></span>
+<span id="cb20-11"><a href="#cb20-11" aria-hidden="true" tabindex="-1"></a>  <span class="fu">coord_flip</span>()</span></code><button title="Copy to Clipboard" class="code-copy-button"><i class="bi"></i></button></pre></div>
+<div class="cell-output-display">
+<div>
+<figure class="figure">
+<p><img src="project_prep_files/figure-html/unnamed-chunk-9-1.png" class="img-fluid figure-img" width="672"></p>
+</figure>
+</div>
+</div>
+<div class="sourceCode cell-code" id="cb21"><pre class="sourceCode r code-with-copy"><code class="sourceCode r"><span id="cb21-1"><a href="#cb21-1" aria-hidden="true" tabindex="-1"></a>test_plot</span></code><button title="Copy to Clipboard" class="code-copy-button"><i class="bi"></i></button></pre></div>
+<div class="cell-output-display">
+<div>
+<figure class="figure">
+<p><img src="project_prep_files/figure-html/unnamed-chunk-9-2.png" class="img-fluid figure-img" width="672"></p>
+</figure>
+</div>
+</div>
+</div>
+<div class="cell">
+<div class="sourceCode cell-code" id="cb22"><pre class="sourceCode r code-with-copy"><code class="sourceCode r"><span id="cb22-1"><a href="#cb22-1" aria-hidden="true" tabindex="-1"></a><span class="co"># Create the bar chart</span></span>
+<span id="cb22-2"><a href="#cb22-2" aria-hidden="true" tabindex="-1"></a><span class="fu">ggplot</span>(pivoted_total_data, <span class="fu">aes</span>(<span class="at">x =</span> Date, <span class="at">y =</span> Value)) <span class="sc">+</span></span>
+<span id="cb22-3"><a href="#cb22-3" aria-hidden="true" tabindex="-1"></a>  <span class="fu">geom_bar</span>(<span class="at">stat =</span> <span class="st">"identity"</span>, <span class="at">fill =</span> <span class="st">"steelblue"</span>) <span class="sc">+</span></span>
+<span id="cb22-4"><a href="#cb22-4" aria-hidden="true" tabindex="-1"></a>  <span class="fu">labs</span>(<span class="at">title =</span> <span class="st">"Bar Chart of Pivoted Total Data"</span>, <span class="at">x =</span> <span class="st">"Category"</span>, <span class="at">y =</span> <span class="st">"Inflation Rate"</span>) <span class="sc">+</span></span>
+<span id="cb22-5"><a href="#cb22-5" aria-hidden="true" tabindex="-1"></a>  <span class="fu">theme_minimal</span>()</span></code><button title="Copy to Clipboard" class="code-copy-button"><i class="bi"></i></button></pre></div>
+<div class="cell-output-display">
+<div>
+<figure class="figure">
+<p><img src="project_prep_files/figure-html/unnamed-chunk-10-1.png" class="img-fluid figure-img" width="672"></p>
+</figure>
+</div>
+</div>
+</div>
+</section>
+<section id="test-scatter-plot-with-trend-line" class="level1">
+<h1>Test scatter plot with trend line</h1>
+<div class="cell">
+<div class="sourceCode cell-code" id="cb23"><pre class="sourceCode r code-with-copy"><code class="sourceCode r"><span id="cb23-1"><a href="#cb23-1" aria-hidden="true" tabindex="-1"></a><span class="co"># Convert Month and Year to a combined date variable for X-axis</span></span>
+<span id="cb23-2"><a href="#cb23-2" aria-hidden="true" tabindex="-1"></a>pivoted_data<span class="sc">$</span>Date <span class="ot">&lt;-</span> <span class="fu">as.Date</span>(<span class="fu">paste</span>(pivoted_data<span class="sc">$</span>Year, pivoted_data<span class="sc">$</span>Month, <span class="st">"01"</span>, <span class="at">sep =</span> <span class="st">"-"</span>))</span>
+<span id="cb23-3"><a href="#cb23-3" aria-hidden="true" tabindex="-1"></a></span>
+<span id="cb23-4"><a href="#cb23-4" aria-hidden="true" tabindex="-1"></a><span class="co"># Create scatter plot</span></span>
+<span id="cb23-5"><a href="#cb23-5" aria-hidden="true" tabindex="-1"></a>scatter_plot <span class="ot">&lt;-</span> <span class="fu">ggplot</span>(pivoted_data, <span class="fu">aes</span>(<span class="at">x =</span> Date, <span class="at">y =</span> Value, <span class="at">color =</span> Variables)) <span class="sc">+</span></span>
+<span id="cb23-6"><a href="#cb23-6" aria-hidden="true" tabindex="-1"></a>  <span class="fu">geom_point</span>(<span class="at">alpha =</span> <span class="fl">0.6</span>, <span class="at">size =</span> <span class="dv">2</span>) <span class="sc">+</span>  <span class="co"># Adjusted point size for better visibility</span></span>
+<span id="cb23-7"><a href="#cb23-7" aria-hidden="true" tabindex="-1"></a>  <span class="fu">geom_smooth</span>(<span class="at">method =</span> <span class="st">"lm"</span>, <span class="at">se =</span> <span class="cn">FALSE</span>, <span class="at">linetype =</span> <span class="st">"dashed"</span>, <span class="at">linewidth =</span> <span class="dv">1</span>) <span class="sc">+</span> <span class="co"># Adjusted line width for clarity</span></span>
+<span id="cb23-8"><a href="#cb23-8" aria-hidden="true" tabindex="-1"></a>  <span class="fu">scale_color_manual</span>(<span class="at">values =</span> custom_colors) <span class="sc">+</span>  </span>
+<span id="cb23-9"><a href="#cb23-9" aria-hidden="true" tabindex="-1"></a>  <span class="fu">labs</span>(</span>
+<span id="cb23-10"><a href="#cb23-10" aria-hidden="true" tabindex="-1"></a>    <span class="at">title =</span> <span class="st">"Scatter Plot of Year-on-Year CPI Changes by Category"</span>,</span>
+<span id="cb23-11"><a href="#cb23-11" aria-hidden="true" tabindex="-1"></a>    <span class="at">x =</span> <span class="st">"Date"</span>,</span>
+<span id="cb23-12"><a href="#cb23-12" aria-hidden="true" tabindex="-1"></a>    <span class="at">y =</span> <span class="st">"CPI Change (%)"</span></span>
+<span id="cb23-13"><a href="#cb23-13" aria-hidden="true" tabindex="-1"></a>  ) <span class="sc">+</span> </span>
+<span id="cb23-14"><a href="#cb23-14" aria-hidden="true" tabindex="-1"></a>  <span class="fu">theme_minimal</span>() <span class="sc">+</span></span>
+<span id="cb23-15"><a href="#cb23-15" aria-hidden="true" tabindex="-1"></a>  <span class="fu">theme</span>(</span>
+<span id="cb23-16"><a href="#cb23-16" aria-hidden="true" tabindex="-1"></a>    <span class="at">plot.title =</span> <span class="fu">element_text</span>(<span class="at">size =</span> <span class="dv">16</span>, <span class="at">face =</span> <span class="st">"bold"</span>),</span>
+<span id="cb23-17"><a href="#cb23-17" aria-hidden="true" tabindex="-1"></a>    <span class="at">axis.title =</span> <span class="fu">element_text</span>(<span class="at">size =</span> <span class="dv">14</span>),</span>
+<span id="cb23-18"><a href="#cb23-18" aria-hidden="true" tabindex="-1"></a>    <span class="at">axis.text =</span> <span class="fu">element_text</span>(<span class="at">size =</span> <span class="dv">12</span>),</span>
+<span id="cb23-19"><a href="#cb23-19" aria-hidden="true" tabindex="-1"></a>    <span class="at">legend.title =</span> <span class="fu">element_text</span>(<span class="at">size =</span> <span class="dv">14</span>),</span>
+<span id="cb23-20"><a href="#cb23-20" aria-hidden="true" tabindex="-1"></a>    <span class="at">legend.text =</span> <span class="fu">element_text</span>(<span class="at">size =</span> <span class="dv">12</span>),</span>
+<span id="cb23-21"><a href="#cb23-21" aria-hidden="true" tabindex="-1"></a>    <span class="at">legend.position =</span> <span class="st">"right"</span></span>
+<span id="cb23-22"><a href="#cb23-22" aria-hidden="true" tabindex="-1"></a>  )</span>
+<span id="cb23-23"><a href="#cb23-23" aria-hidden="true" tabindex="-1"></a></span>
+<span id="cb23-24"><a href="#cb23-24" aria-hidden="true" tabindex="-1"></a>scatter_plot</span></code><button title="Copy to Clipboard" class="code-copy-button"><i class="bi"></i></button></pre></div>
+<div class="cell-output cell-output-stderr">
+<pre><code>`geom_smooth()` using formula = 'y ~ x'</code></pre>
+</div>
+<div class="cell-output-display">
+<div>
+<figure class="figure">
+<p><img src="project_prep_files/figure-html/scatter-plot-visualization-1.png" class="img-fluid figure-img" width="1152"></p>
 </figure>
 </div>
 </div>
